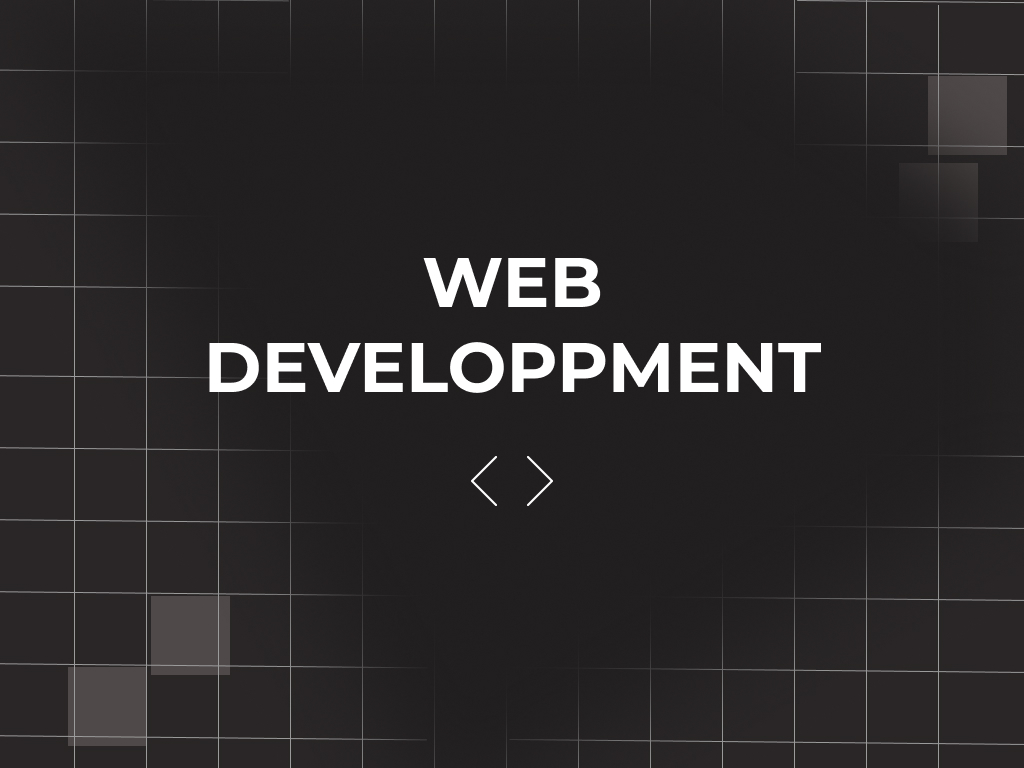
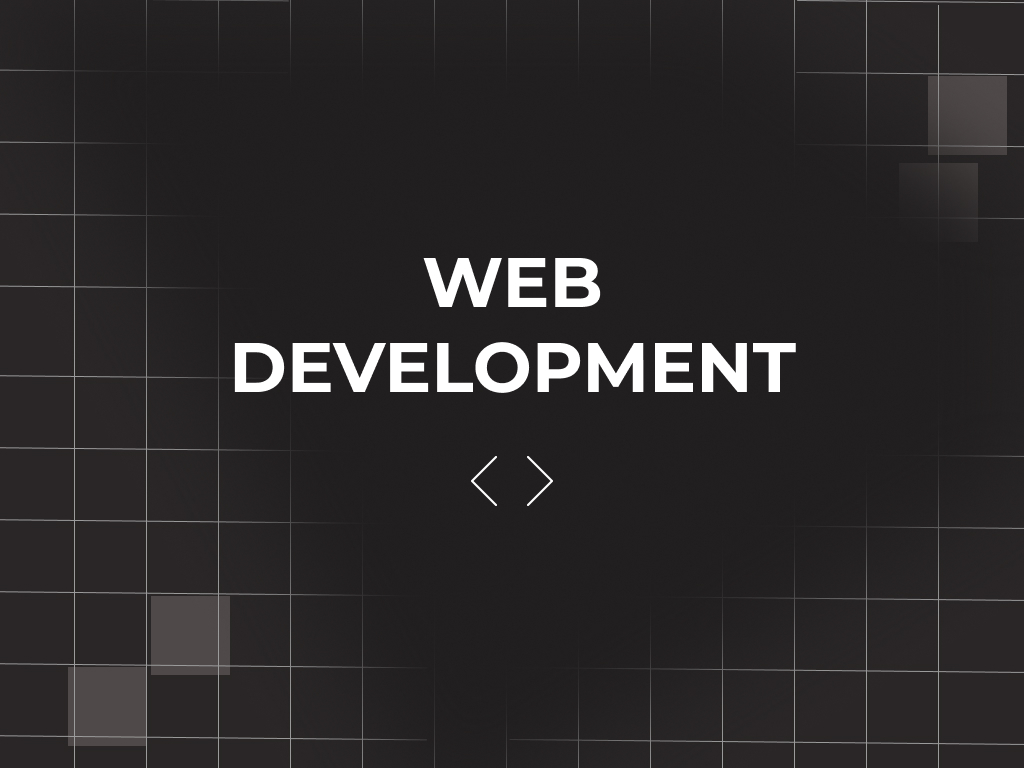
feat: add digital access diagnostic project and update service covers
Add a fourth data analysis, and refresh service hub cover images.

Changed region(s): [[0.1875, 0.4375, 0.8125, 0.5312]]

diff --git a/app/components/DataServices.vue b/app/components/DataServices.vue
@@ -37,6 +37,14 @@ const skills = [
 const projects = [
     {
         id: 1,
+        name: "Diagnostic de l'accès aux télécommunications et aux services numériques",
+        description: "Au Togo, beaucoup de gens envoient et reçoivent de l'argent depuis leur téléphone grâce au « mobile money », et passent par des agences d'opérateurs pour leurs services numériques. Dans le cadre d'un défi du Togo AI Lab, j'ai voulu savoir si ces services sont accessibles à tous ou seulement à certains. En croisant les données publiques sur les agences, les centres de données, près de 20 000 points d'agents mobile money et le dernier recensement de la population, j'ai construit un tableau de bord interactif et un rapport qui rendent la réponse lisible d'un coup d'œil : l'accès est très inégal. Plus de la moitié des sites (58 %) se trouvent dans la seule région de Lomé et ses environs. Certaines préfectures comptent plus de douze fois plus de points mobile money par habitant que d'autres. Douze préfectures sur trente-neuf n'ont aucun site recensé, et un village du nord se trouve à près de 60 km du point d'accès le plus proche. J'ai aussi tenu à rester honnête sur ce que les données ne disent pas. Le réseau d'un des opérateurs (CANAL+) n'est tout simplement pas recensé, et je n'avais aucune donnée sur la qualité du signal téléphonique, donc je mesure la distance aux points d'accès, pas la couverture réseau. Le projet se termine par cinq recommandations concrètes pour savoir où agir en priorité, dont une qui demande de rendre publiques les données manquantes",
+        stack: ['Python', 'Streamlit'],
+        cover: '/images/data_analysis/project4.png',
+        link: 'https://togo-diagnostic-acces-numerique.streamlit.app/',
+    },
+    {
+        id: 2,
         name: 'Électricité, énergie propre et forêts au Togo',
         description: "Le Togo veut électrifier ses campagnes d'ici 2030 sans épuiser ses forêts — un vrai casse-tête, puisque la plupart des ménages cuisinent encore au bois et au charbon. J'ai analysé six jeux de données publiques (accès à l'électricité, énergie des ménages, émissions polluantes, climat, forêts protégées) pour comprendre où se situent les vrais points de tension, et j'ai construit un outil interactif bilingue (français/anglais) pour explorer ces résultats. Une découverte marquante : ce n'est pas le secteur de l'énergie qui pollue le plus au Togo, mais l'agriculture et la déforestation — un constat qui change la façon de penser les priorités climatiques du pays.",
         stack: ['Python', 'Streamlit'],
@@ -45,7 +53,7 @@ const projects = [
     },
 
     {
-        id: 2,
+        id: 3,
         name: "Accès à l'eau potable au Togo",
         description: "Combien de villages togolais manquent encore de points d'eau fiables, et où faut-il investir en priorité ? Pour répondre à cette question, j'ai croisé cinq sources de données publiques (infrastructures existantes, risques d'inondation, densité de population) afin de construire un outil interactif qui identifie, région par région, les zones les plus urgentes à équiper ou à entretenir. Le résultat : une carte claire des priorités d'investissement, utilisable par des décideurs pour orienter des financements vers les endroits qui en ont le plus besoin.",
         stack: ['Python', 'Streamlit'],
@@ -53,7 +61,7 @@ const projects = [
         link: 'https://acces-eau-tg.streamlit.app/',
     },
     {
-        id: 3,
+        id: 4,
         name: 'HealthMap — Cartographie des acteurs et infrastructures de santé au Togo',
         description: "HealthMap est une plateforme web dédiée à l’exploration et à la visualisation des données liées au secteur de la santé au Togo. Le projet permet de rechercher et filtrer différentes entités du secteur, notamment les pharmacies, laboratoires, établissements et acteurs de la HealthTech, tout en explorant leurs informations et leur localisation. Une attention particulière a été portée à la collecte, au nettoyage et à la structuration des données. Plusieurs jeux de données géospatiales issus de GEODATA Togo ont été traités avec Python et Pandas avant d’être intégrés dans une base PostgreSQL via Supabase. La plateforme comprend également un dashboard permettant d’explorer la répartition des entités par catégorie et par zone géographique.",
         stack: ['Nuxt', 'Tailwind', 'Supabase', 'Python', 'Chart.js'],

diff --git a/app/pages/index.vue b/app/pages/index.vue
@@ -31,7 +31,7 @@ const services = [
     title: 'Data Analyse',
     description: 'Analyse de données et aide à la décision.',
     icon: 'mdi:chart-box',
-    cover: '/images/cover1.jpg',
+    cover: '/images/cover4.jpg',
     component: DataServices,
   },
   {
